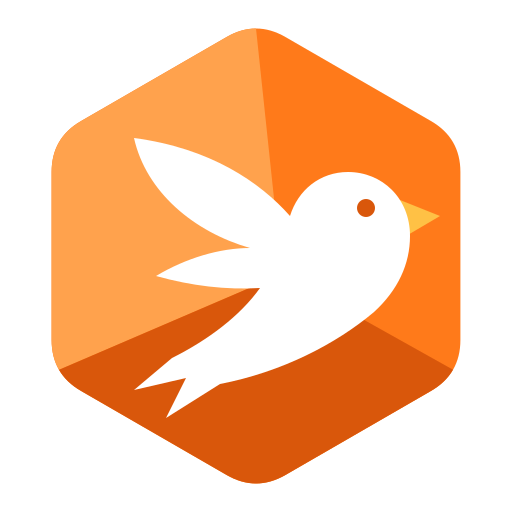
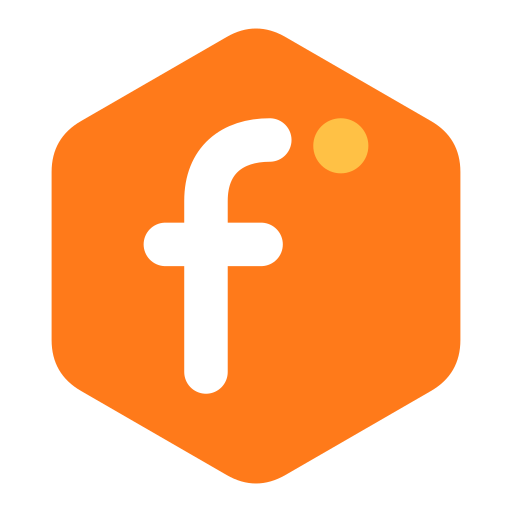
New mark: the f of the wordmark with a dot in its top-right corner
- The mark is the wordmark's own f (rounded strokes) with a dot the size of the one
  over the i, half a stroke after the f's curl, tops lined up, centred exactly.
- On its own: Ink f + orange dot (logo-mark.svg) or Cloud f + orange dot
  (logo-mark-dark.svg). As the app icon: a white f and a Seed dot on the Finch Orange
  hexagon (icon, favicon, VS Code icons, the logos and the social preview).
- assets/make_logo.py draws it; --png renders every PNG. Plain paths only, so every
  SVG viewer and file manager shows it the same. BRAND.md (en, pl) describes it.

diff --git a/assets/make_logo.py b/assets/make_logo.py
@@ -1,145 +1,84 @@
-# Draws the Finch mark (a faceted hexagon with a finch in flight) and puts it into the logos:
-#   python3 assets/make_logo.py assets/icon.svg      the mark alone; see the bottom of this file for the rest
-# Plain paths only (no clip paths), so every SVG viewer and file manager shows it the same.
-# Then render the PNGs, e.g. with rsvg-convert (BRAND.md has the list).
-import math, sys
+# Draws the Finch mark, the f of the wordmark with a dot in its top-right corner, and writes every logo file:
+#   python3 assets/make_logo.py            the SVGs: icon.svg, logo-mark*.svg, and the icon inside logo*.svg and social-preview.svg
+#   python3 assets/make_logo.py --png      and renders the PNGs too (rsvg-convert or Inkscape)
+# Plain paths only (no clip paths, no filters), so every SVG viewer and file manager shows it the same.
+import os, sys
 
-C = 256.0          # centre
-R = 236.0          # hexagon radius (to the corners)
-ROUND = 34.0       # corner rounding
+ORANGE, SEED, INK, CLOUD, WHITE = "#FF7A1A", "#FFC145", "#1B1F2A", "#F5F3EF", "#FFFFFF"
 
+# the app icon's hexagon: pointy top, rounded corners
+HEX = ("M226.6 37.0 Q256.0 20.0 285.4 37.0 L430.9 121.0 Q460.4 138.0 460.4 172.0 L460.4 340.0 Q460.4 374.0 430.9 391.0 "
+       "L285.4 475.0 Q256.0 492.0 226.6 475.0 L81.1 391.0 Q51.6 374.0 51.6 340.0 L51.6 172.0 Q51.6 138.0 81.1 121.0 Z")
 
-def hex_points(r=R):
-    # pointy top, clockwise from the top
-    return [(C + r * math.sin(math.radians(a)), C - r * math.cos(math.radians(a))) for a in range(0, 360, 60)]
-
-
-def rounded(points, rad):
-    n = len(points)
-    d = []
-    for i in range(n):
-        p0, p1, p2 = points[i - 1], points[i], points[(i + 1) % n]
-        v1 = (p0[0] - p1[0], p0[1] - p1[1])
-        v2 = (p2[0] - p1[0], p2[1] - p1[1])
-        l1, l2 = math.hypot(*v1), math.hypot(*v2)
-        a = (p1[0] + v1[0] / l1 * rad, p1[1] + v1[1] / l1 * rad)
-        b = (p1[0] + v2[0] / l2 * rad, p1[1] + v2[1] / l2 * rad)
-        d.append(("M" if i == 0 else "L") + f"{a[0]:.1f} {a[1]:.1f} Q{p1[0]:.1f} {p1[1]:.1f} {b[0]:.1f} {b[1]:.1f}")
-    return " ".join(d) + " Z"
+# the f, exactly as the wordmark draws it (stroke 30, round ends), in the wordmark's own units
+STROKE = 30
+F_STEM = "M60 230 L60 112 C60 84 78 70 104 70"
+F_BAR = "M32 142 L98 142"
+DOT_R = 19                      # the same size as the dot over the i in the wordmark
+# right after the end of the f's curl (x 104, plus its round end), half a stroke apart, with their tops lined up
+DOT = (104 + STROKE / 2 + STROKE / 2 + DOT_R, 70 - STROKE / 2 + DOT_R)
+# the box the f and the dot fill together, so they can be centred exactly
+BOX = (32 - STROKE / 2, 70 - STROKE / 2, DOT[0] + DOT_R, 230 + STROKE / 2)
 
 
-def poly(points):
-    return "M" + " L".join(f"{x:.1f} {y:.1f}" for x, y in points) + " Z"
+def glyph(f_color, dot_color, cx=256, cy=256, scale=1.45):
+    """the f and its dot, scaled, with the middle of their box at (cx, cy)"""
+    bx = (BOX[0] + BOX[2]) / 2
+    by = (BOX[1] + BOX[3]) / 2
+    return (f'  <g transform="translate({cx} {cy}) scale({scale}) translate({-bx:.2f} {-by:.2f})">\n'
+            f'    <path d="{F_STEM} {F_BAR}" fill="none" stroke="{f_color}" stroke-width="{STROKE}" '
+            f'stroke-linecap="round" stroke-linejoin="round"/>\n'
+            f'    <circle cx="{DOT[0]:.1f}" cy="{DOT[1]:.1f}" r="{DOT_R}" fill="{dot_color}"/>\n'
+            f'  </g>\n')
 
 
-P = hex_points()
-top, ur, lr, bot, ll, ul = P
-centre = (C, C)
-# three facets meeting a little right of the centre, like light from the upper left
-k = (C + 26, C + 18)
-LIGHT = poly([top, k, ll, ul])                 # the upper-left half
-MID = poly([top, ur, lr, k])                    # the right
-DARK = poly([ll, k, lr, bot])                   # the bottom
-
-# the finch: in flight towards the upper right, wings swept back, a short seed-cracker beak, a forked tail
-BIRD = """
-M 396 214
-C 396 176 368 150 334 150
-C 306 150 284 168 276 194
-C 246 160 196 126 120 116
-C 132 170 180 210 236 226
-C 206 226 172 236 142 254
-C 178 264 212 268 246 266
-C 226 294 194 318 158 336
-L 120 368
-L 172 356
-L 152 396
-L 206 362
-C 268 350 322 322 360 290
-C 384 268 396 242 396 214
-Z
-"""
-BEAK = "M 386 178 L 426 194 L 392 214 Z"
-EYE = (352, 186, 9)
+def icon_body():
+    """the app icon: a white f and a Seed dot on the orange hexagon"""
+    return f'  <path d="{HEX}" fill="{ORANGE}"/>\n' + glyph(WHITE, SEED)
 
 
-def corners(points, rad):
-    """for each corner: where the rounding starts (a), the corner (p), where it ends (b)"""
-    out = []
-    n = len(points)
-    for i in range(n):
-        p0, p1, p2 = points[i - 1], points[i], points[(i + 1) % n]
-        v1 = (p0[0] - p1[0], p0[1] - p1[1])
-        v2 = (p2[0] - p1[0], p2[1] - p1[1])
-        l1, l2 = math.hypot(*v1), math.hypot(*v2)
-        a = (p1[0] + v1[0] / l1 * rad, p1[1] + v1[1] / l1 * rad)
-        b = (p1[0] + v2[0] / l2 * rad, p1[1] + v2[1] / l2 * rad)
-        out.append((a, p1, b))
-    return out
+def doc(body, title="Finch"):
+    return (f'<svg xmlns="http://www.w3.org/2000/svg" viewBox="0 0 512 512" width="512" height="512">\n'
+            f'  <title>{title}</title>\n' + body + '</svg>\n')
 
 
-def pt(q):
-    return f"{q[0]:.1f} {q[1]:.1f}"
-
-
-def half(a, b):
-    return ((a[0] + b[0]) / 2, (a[1] + b[1]) / 2)
-
-
-def facet(cs, start, end, inner):
-    """the hexagon's rounded outline from the middle of corner `start`, clockwise, to the middle of corner `end`,
-    then straight to `inner`: a facet with no clip path, so every SVG viewer draws it the same"""
-    n = len(cs)
-    a, p, b = cs[start]
-    m = ((a[0] + 2 * p[0] + b[0]) / 4, (a[1] + 2 * p[1] + b[1]) / 4)
-    d = [f"M{pt(m)} Q{pt(half(p, b))} {pt(b)}"]
-    j = (start + 1) % n
-    while j != end:
-        a, p, b = cs[j]
-        d.append(f"L{pt(a)} Q{pt(p)} {pt(b)}")
-        j = (j + 1) % n
-    a, p, b = cs[end]
-    m = ((a[0] + 2 * p[0] + b[0]) / 4, (a[1] + 2 * p[1] + b[1]) / 4)
-    d.append(f"L{pt(a)} Q{pt(half(a, p))} {pt(m)}")
-    d.append(f"L{pt(inner)} Z")
-    return " ".join(d)
-
-
-def svg(size=512, bg=None, colors=("#FFA24D", "#FF7A1A", "#D9570B"), bird="#FFFFFF", beak="#FFC145", title="Finch"):
-    light, mid, dark = colors
-    cs = corners(P, ROUND)
-    out = [f'<svg xmlns="http://www.w3.org/2000/svg" viewBox="0 0 512 512" width="{size}" height="{size}">',
-           f'  <title>{title}</title>']
-    if bg:
-        out.append(f'  <rect width="512" height="512" fill="{bg}"/>')
-    # corners clockwise from the top: 0 top, 1 upper right, 2 lower right, 3 bottom, 4 lower left, 5 upper left
-    out += ['  <!-- the hexagon: the whole of it in the middle tone, then the lit face and the shaded face -->',
-            f'  <path d="{rounded(P, ROUND)}" fill="{mid}"/>',
-            f'  <path d="{facet(cs, 4, 0, k)}" fill="{light}"/>',
-            f'  <path d="{facet(cs, 2, 4, k)}" fill="{dark}"/>',
-            '  <!-- the finch, in flight -->',
-            '  <g transform="translate(14 22)">',
-            f'  <path d="{BEAK}" fill="{beak}"/>',
-            f'  <path d="{" ".join(BIRD.split())}" fill="{bird}"/>',
-            f'  <circle cx="{EYE[0]}" cy="{EYE[1]}" r="{EYE[2]}" fill="{dark}"/>',
-            '  </g>',
-            '</svg>']
-    return "\n".join(out) + "\n"
-
-
-def mark(clip_id=None):
-    """the mark as SVG elements to put into another document"""
-    s = svg()
-    return s.split('\n', 2)[2].rsplit('</svg>', 1)[0]
-
-
-if __name__ == "__main__":
-    open(sys.argv[1], "w").write(svg())
-
-
-def swap_bird(path, clip_id):
+def swap_mark(path):
+    """put the app icon into a logo, left of the wordmark, where the old mark was"""
     text = open(path).read()
     start = text.index('<g transform="translate(0 6) scale(0.56)">')
     end = text.index('<g transform="translate(330 20)">')
-    new = '<g transform="translate(0 6) scale(0.56)">\n' + mark(clip_id) + '  </g>\n  '
+    new = '<g transform="translate(0 6) scale(0.56)">\n' + icon_body() + '  </g>\n  '
     open(path, 'w').write(text[:start] + new + text[end:])
+
+
+if __name__ == "__main__":
+    here = os.path.dirname(os.path.abspath(__file__))
+    write = lambda name, text: open(os.path.join(here, name), "w").write(text)
+    write("icon.svg", doc(icon_body()))
+    write("logo-mark.svg", doc(glyph(INK, ORANGE, scale=2.0)))           # for light backgrounds
+    write("logo-mark-dark.svg", doc(glyph(CLOUD, ORANGE, scale=2.0)))    # for dark backgrounds
+    vscode = os.path.join(here, "..", "editors", "vscode", "images")
+    if os.path.isdir(vscode):
+        for name in ["file-light.svg", "file-dark.svg"]:
+            open(os.path.join(vscode, name), "w").write(doc(icon_body()))
+    for name in ["logo.svg", "logo-dark.svg", "social-preview.svg"]:
+        swap_mark(os.path.join(here, name))
+    if "--png" not in sys.argv:
+        print("the mark is in every SVG; render the PNGs with: python3 assets/make_logo.py --png")
+        sys.exit(0)
+    import shutil, subprocess
+    sizes = [("icon.svg", "icon.png", 512, 512), ("icon.svg", "icon-256.png", 256, 256), ("icon.svg", "favicon-64.png", 64, 64),
+             ("logo.svg", "logo.png", 1000, 300), ("logo-dark.svg", "logo-dark.png", 1000, 300),
+             ("social-preview.svg", "social-preview.png", 1280, 640)]
+    if os.path.isdir(vscode):
+        sizes.append(("icon.svg", os.path.join(vscode, "icon.png"), 128, 128))
+    for src, out, w, h in sizes:
+        src = os.path.join(here, src)
+        out = os.path.join(here, out)
+        if shutil.which("rsvg-convert"):
+            subprocess.run(["rsvg-convert", "-w", str(w), "-h", str(h), src, "-o", out], check=True)
+        elif shutil.which("inkscape"):
+            subprocess.run(["inkscape", src, "-w", str(w), "-h", str(h), "-o", out], check=True)
+        else:
+            sys.exit("no rsvg-convert or inkscape to render the PNGs with (on Nix: nix-shell -p librsvg)")
+    print("the mark is in every SVG and PNG")

diff --git a/assets/BRAND.md b/assets/BRAND.md
@@ -6,34 +6,34 @@
 
 | File | Use |
 |---|---|
-| `logo.svg` / `logo.png` | the mark + wordmark, for light backgrounds |
+| `logo.svg` / `logo.png` | the icon + wordmark, for light backgrounds |
 | `logo-dark.svg` / `logo-dark.png` | the same for dark backgrounds |
-| `logo-mark.svg`, `logo-mark-dark.svg` | the mark alone (it works on light and dark) |
+| `logo-mark.svg` / `logo-mark-dark.svg` | the mark alone, no background: for light / for dark backgrounds |
 | `icon.svg`, `icon.png`, `icon-256.png`, `favicon-64.png` | app icon / avatar / favicon |
 | `social-preview.svg` / `social-preview.png` | GitHub social preview (1280×640) |
 
-**The mark** is a hexagon in three shades of orange, lit from the upper left, with a white finch flying through it
-towards the upper right: wings swept back, a short seed-cracker beak, a forked tail. Small, quick, sharp. It is made by
-`make_logo.py`, which also puts it into the logos and the social preview; the PNGs are rendered from the SVGs
-(`rsvg-convert -w 512 -h 512 icon.svg -o icon.png`, and 256, 64, the logos at 1000×300, the preview at 1280×640, the
-VS Code icon at 128).
+**The mark** is the **f** of the wordmark with a dot in its top-right corner: the same rounded strokes, and a dot the
+size of the one over the **i**, half a stroke after the f's curl with their tops lined up. It stands on its own
+(Ink f and orange dot on light backgrounds, Cloud f on dark), and as the app icon on a Finch Orange hexagon (white f,
+Seed dot), the shape of the classic systems languages. `make_logo.py` draws it and writes every file above:
+`python3 assets/make_logo.py --png` (the PNGs are rendered with `rsvg-convert` or Inkscape).
 
 The wordmark is drawn with strokes (no font needed), lowercase, with an orange dot over the **i**.
 Keep clear space around the logo of at least the height of the letter **n**. Don't recolor the mark, rotate it,
-stretch it, or put it on busy backgrounds; the bird stays white.
+stretch it, add shading or outlines, or put it on busy backgrounds; the dot stays in the f's top-right corner.
 
 ## Colors
 
 | Name | Hex | Use |
 |---|---|---|
-| Finch Orange | `#FF7A1A` | the mark's right face, accents, the dot over the i |
-| Glow | `#FFA24D` | the mark's lit face, light orange highlights |
-| Ember | `#D9570B` | the mark's lower face, the bird's eye |
-| Seed | `#FFC145` | the beak, numbers in code |
-| Ink | `#1B1F2A` | text, the wing, dark backgrounds |
+| Finch Orange | `#FF7A1A` | the mark, accents, the dot over the i |
+| Glow | `#FFA24D` | light orange highlights |
+| Ember | `#D9570B` | dark orange, pressed states |
+| Seed | `#FFC145` | the dot of the app icon, numbers in code |
+| Ink | `#1B1F2A` | text, dark backgrounds |
 | Slate | `#2E3445` | secondary dark |
 | Cloud | `#F5F3EF` | text on dark, light backgrounds |
-| Shell | `#FFF3E6` | the icon background |
+| Shell | `#FFF3E6` | warm light backgrounds |
 
 ## Type
 
@@ -48,16 +48,18 @@ Tagline: **Small, quick, sharp.**
 
 ## Marka Finch (po polsku)
 
-**Logo:** pliki jak w tabeli wyżej. Znak to sześciokąt w trzech odcieniach pomarańczu, oświetlony z lewej góry,
-z białym gilem (finch) lecącym przez niego w prawo w górę: skrzydła odgięte do tyłu, krótki dziób do łuskania ziaren,
-rozwidlony ogon. Rysuje go `make_logo.py`. `logo.svg` jest na jasne tło, `logo-dark.svg` na ciemne,
-`logo-mark*.svg` to sam znak, `icon*` to ikona i awatar, a `social-preview.png` to podgląd linku na GitHubie.
+**Logo:** pliki jak w tabeli wyżej. Znak to **f** z napisu z kropką w prawym górnym rogu: te same zaokrąglone
+linie i kropka wielkości tej nad **i**, pół grubości linii za zawinięciem f, z wyrównanymi górami. Działa sam
+(f w kolorze Ink i pomarańczowa kropka na jasnym tle, f w kolorze Cloud na ciemnym) i jako ikona aplikacji na
+sześciokącie Finch Orange (białe f, kropka Seed), kształcie klasycznych języków systemowych. Rysuje go
+`make_logo.py` (`python3 assets/make_logo.py --png` zapisuje wszystkie pliki). `logo.svg` jest na jasne tło, `logo-dark.svg` na ciemne,
+`logo-mark.svg` / `logo-mark-dark.svg` to sam znak bez tła (na jasne / na ciemne tło), `icon*` to ikona i awatar, a `social-preview.png` to podgląd linku na GitHubie.
 Napis jest rysowany liniami (nie potrzebuje czcionki), małymi literami, z pomarańczową kropką nad **i**.
 Zostaw wokół logo wolne miejsce co najmniej wysokości litery **n**. Nie zmieniaj kolorów znaku, nie obracaj
-go, nie rozciągaj i nie kładź na pstrokatym tle; ptak zostaje biały.
+go, nie rozciągaj, nie dodawaj cieni ani obrysów i nie kładź go na pstrokatym tle; kropka zostaje w prawym górnym rogu f.
 
-**Kolory:** Finch Orange `#FF7A1A` (prawa ściana znaku, akcenty), Glow `#FFA24D` (oświetlona ściana), Ember `#D9570B` (dolna ściana, oko ptaka), Seed `#FFC145` (dziób),
-Ink `#1B1F2A` (tekst, skrzydło, ciemne tło), Slate `#2E3445`, Cloud `#F5F3EF` (tekst na ciemnym), Shell `#FFF3E6` (tło ikony).
+**Kolory:** Finch Orange `#FF7A1A` (znak, akcenty), Glow `#FFA24D` (jasne akcenty), Ember `#D9570B` (ciemny pomarańcz), Seed `#FFC145` (kropka ikony, liczby w kodzie),
+Ink `#1B1F2A` (tekst, ciemne tło), Slate `#2E3445`, Cloud `#F5F3EF` (tekst na ciemnym), Shell `#FFF3E6` (ciepłe jasne tło).
 
 **Czcionki:** Inter do tekstu, JetBrains Mono do kodu.
 
